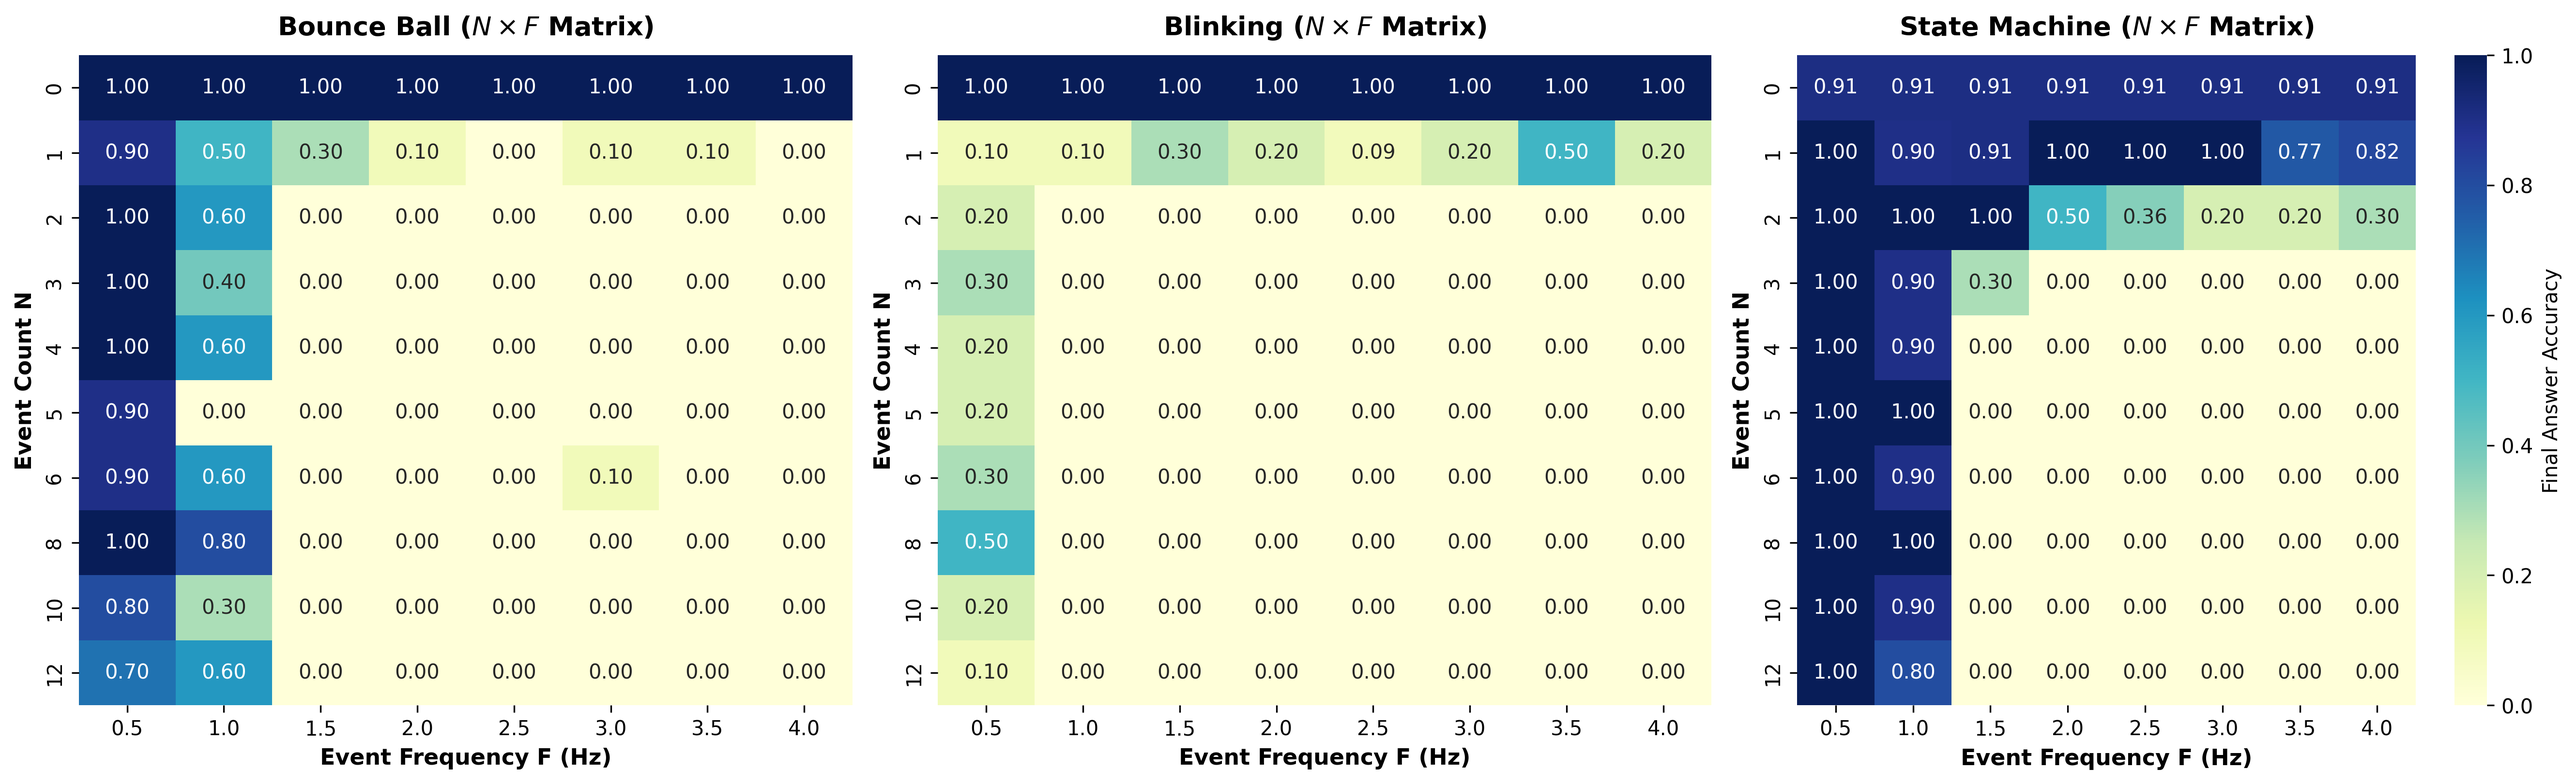
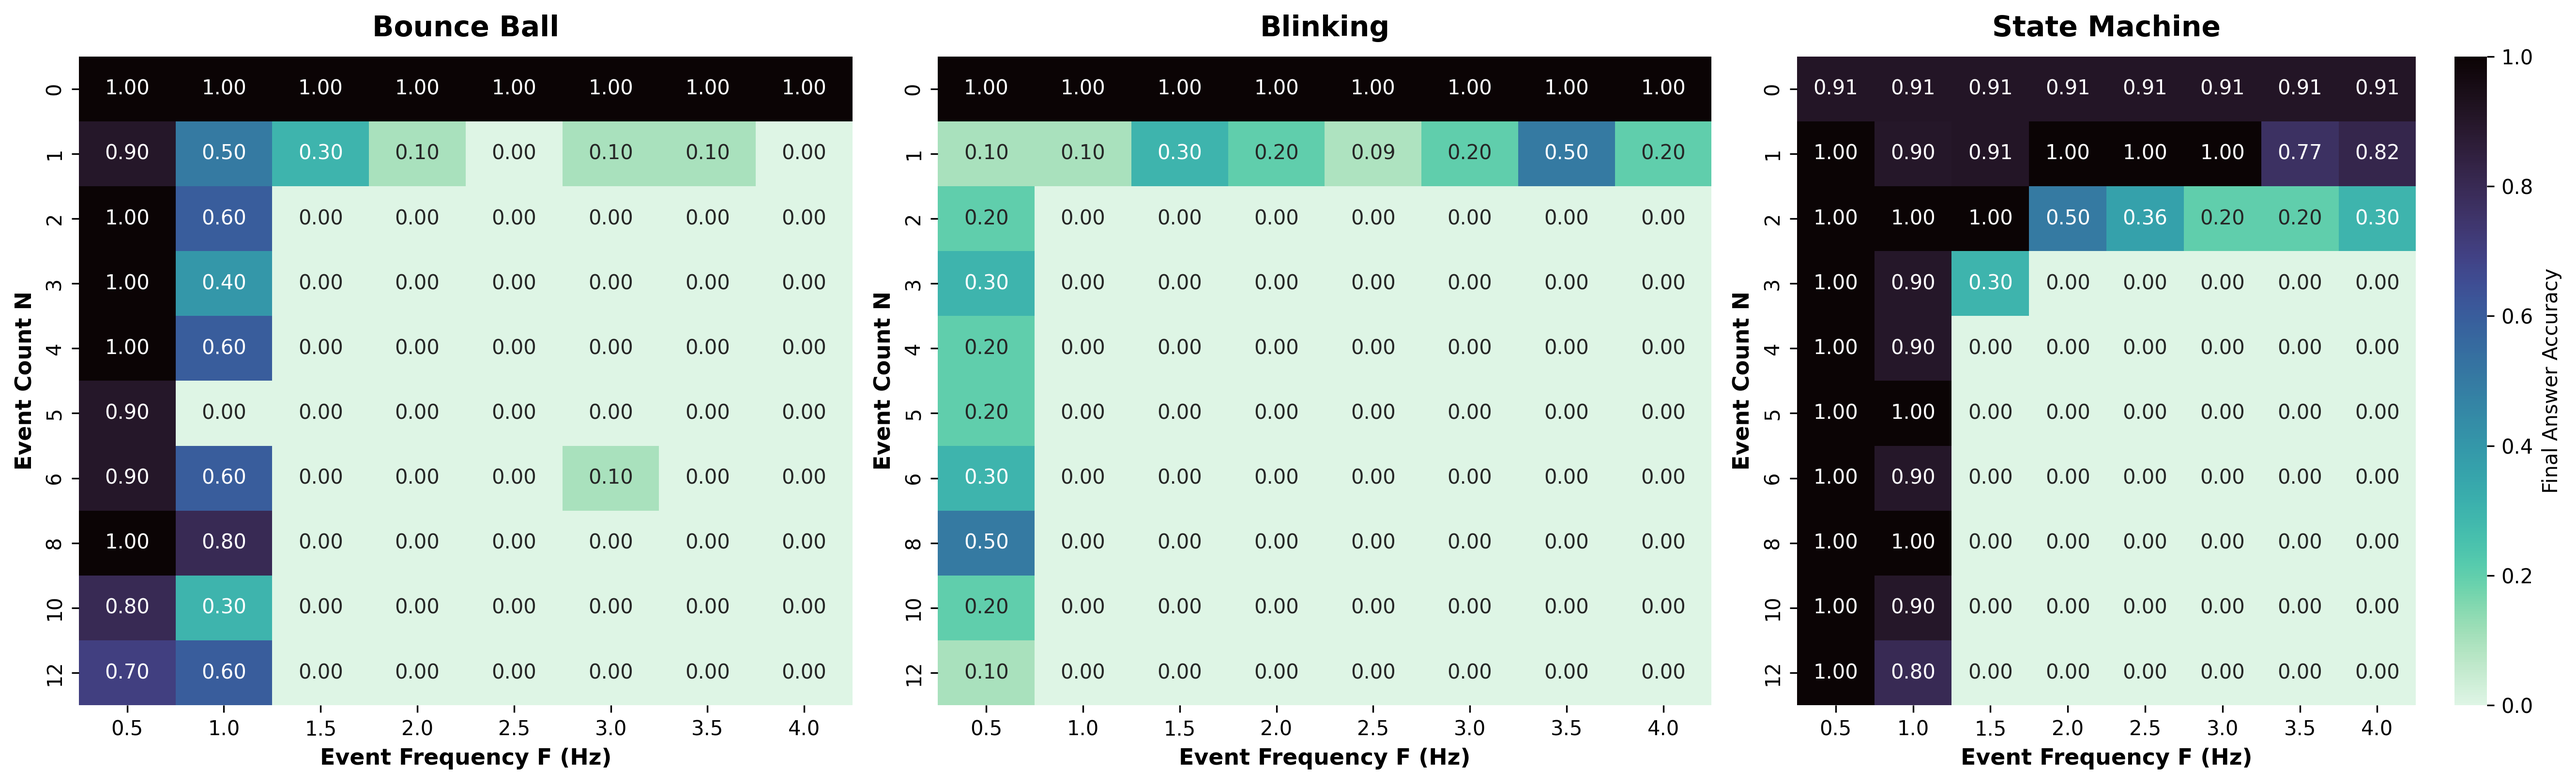
Update Fig 3 heatmaps color palette and clean titles; update Fig 4 to use Keyframe label and remove Bounce Ball from titles

diff --git a/scripts/build_paper_figures_and_tables.py b/scripts/build_paper_figures_and_tables.py
@@ -173,7 +173,7 @@ def main():
     interventions_files = [
         ("Native + Structured (Baseline)", "results_matrix_gemini_gemini-3.6-flash_native_video_structured_trace.jsonl"),
         ("Dense Sampling (4 FPS)", "results_matrix_gemini_gemini-3.6-flash_frames_4fps_structured_trace.jsonl"),
-        ("Oracle Event Evidence", "results_matrix_gemini_gemini-3.6-flash_oracle_evidence_structured_trace.jsonl"),
+        ("Keyframe Evidence", "results_matrix_gemini_gemini-3.6-flash_oracle_evidence_structured_trace.jsonl"),
         ("Direct Answer", "results_matrix_gemini_gemini-3.6-flash_native_video_direct.jsonl"),
         ("Structured Trace", "results_matrix_gemini_gemini-3.6-flash_native_video_structured_trace.jsonl"),
         ("Multi-Turn Verification", "results_matrix_gemini_gemini-3.6-flash_native_video_multi_turn_verification.jsonl"),
@@ -251,14 +251,14 @@ def main():
                 pivot,
                 annot=True,
                 fmt=".2f",
-                cmap="YlGnBu",
+                cmap="mako_r",
                 ax=axes[idx],
                 vmin=0.0,
                 vmax=1.0,
                 cbar=(idx == 2),
                 cbar_kws={"label": "Final Answer Accuracy"} if idx == 2 else None
             )
-            axes[idx].set_title(f"{domain_labels[domain]} ($N \\times F$ Matrix)", fontsize=13, fontweight="bold", pad=10)
+            axes[idx].set_title(f"{domain_labels[domain]}", fontsize=14, fontweight="bold", pad=10)
             axes[idx].set_xlabel("Event Frequency F (Hz)", fontsize=11, fontweight="bold")
             axes[idx].set_ylabel("Event Count N", fontsize=11, fontweight="bold")
 
@@ -273,7 +273,7 @@ def main():
     # -------------------------------------------------------------
     fig, (ax_a, ax_b, ax_c) = plt.subplots(1, 3, figsize=(18, 5), dpi=300)
 
-    # Panel A: Sampling Densities vs N
+    # Panel A: Visual Sampling Densities vs N
     fps_modes = [("1 FPS", "frames_1fps"), ("2 FPS", "frames_2fps"), ("4 FPS", "frames_4fps"), ("8 FPS", "frames_8fps"), ("16 FPS", "frames_16fps")]
     colors_fps = ["#1f77b4", "#ff7f0e", "#2ca02c", "#d62728", "#9467bd"]
 
@@ -295,17 +295,17 @@ def main():
                 ax_a.plot(n_grouped.index, n_grouped.values, marker="o", label=label, color=color, linewidth=2)
 
     ax_a.axhline(0.80, color="red", linestyle="--", alpha=0.7, label="τ = 0.80")
-    ax_a.set_title("A. Visual Sampling Densities (Bounce Ball)", fontsize=12, fontweight="bold")
+    ax_a.set_title("A. Visual Sampling Densities", fontsize=12, fontweight="bold")
     ax_a.set_xlabel("Event Count N", fontsize=11, fontweight="bold")
     ax_a.set_ylabel("Final Answer Accuracy", fontsize=11, fontweight="bold")
     ax_a.set_ylim(-0.02, 1.05)
     ax_a.grid(True, linestyle=":", alpha=0.6)
     ax_a.legend(fontsize=9, loc="upper right")
 
-    # Panel B: Oracle Evidence vs Native vs 16 FPS vs N
+    # Panel B: Keyframe Evidence vs Native vs 16 FPS vs N
     panel_b_modes = [("Native Video", "results_matrix_gemini_gemini-3.6-flash_native_video_structured_trace.jsonl", "#1f77b4"),
                      ("16 FPS", "results_matrix_gemini_gemini-3.6-flash_frames_16fps_structured_trace.jsonl", "#9467bd"),
-                     ("Oracle Keyframes", "results_matrix_gemini_gemini-3.6-flash_oracle_evidence_structured_trace.jsonl", "#e63946")]
+                     ("Keyframe", "results_matrix_gemini_gemini-3.6-flash_oracle_evidence_structured_trace.jsonl", "#e63946")]
 
     for label, fname, color in panel_b_modes:
         fpath = outputs_dir / fname
@@ -322,10 +322,10 @@ def main():
             if recs:
                 df_b = pd.DataFrame(recs)
                 n_grouped = df_b.groupby("N_count")["exact_match_result"].mean()
-                ax_b.plot(n_grouped.index, n_grouped.values, marker="s" if "Oracle" in label else "o", label=label, color=color, linewidth=2.2)
+                ax_b.plot(n_grouped.index, n_grouped.values, marker="s" if label == "Keyframe" else "o", label=label, color=color, linewidth=2.2)
 
     ax_b.axhline(0.80, color="red", linestyle="--", alpha=0.7, label="τ = 0.80")
-    ax_b.set_title("B. Oracle Evidence vs Native & 16 FPS", fontsize=12, fontweight="bold")
+    ax_b.set_title("B. Keyframe Evidence vs Native & 16 FPS", fontsize=12, fontweight="bold")
     ax_b.set_xlabel("Event Count N", fontsize=11, fontweight="bold")
     ax_b.set_ylabel("Final Answer Accuracy", fontsize=11, fontweight="bold")
     ax_b.set_ylim(-0.02, 1.05)
@@ -357,7 +357,7 @@ def main():
                 ax_c.plot(n_grouped.index, n_grouped.values, marker="o", label=label, color=color, linewidth=2)
 
     ax_c.axhline(0.80, color="red", linestyle="--", alpha=0.7, label="τ = 0.80")
-    ax_c.set_title("C. Prompting & Reasoning Formats (Bounce Ball)", fontsize=12, fontweight="bold")
+    ax_c.set_title("C. Prompting & Reasoning Formats", fontsize=12, fontweight="bold")
     ax_c.set_xlabel("Event Count N", fontsize=11, fontweight="bold")
     ax_c.set_ylabel("Final Answer Accuracy", fontsize=11, fontweight="bold")
     ax_c.set_ylim(-0.02, 1.05)

diff --git a/outputs/paper/tab_1_trace_grounded_evaluation.tex b/outputs/paper/tab_1_trace_grounded_evaluation.tex
@@ -23,7 +23,7 @@
 \textbf{Visual Evidence Family} & & & & & & & \\
   Native + Structured (Baseline)   &  19.5\% & 0.71 &  73.4\% &  38.8\% &  44.9\% &  2.7\% &  4.6\% \\
   Dense Sampling (4 FPS)           &  29.1\% & 0.71 &   7.8\% &   6.0\% &   6.5\% & 27.7\% &  1.4\% \\
-  Oracle Event Evidence            &   0.1\% & 0.00 &   0.3\% &   0.3\% &   0.3\% &  0.0\% &  0.2\% \\
+  Keyframe Evidence                &   0.1\% & 0.00 &   0.3\% &   0.3\% &   0.3\% &  0.0\% &  0.2\% \\
 \textbf{Prompting & Reasoning Family} & & & & & & \\
   Direct Answer                    &  15.5\% & 0.88 &  47.3\% &  43.1\% &  40.2\% &  5.2\% &  4.0\% \\
   Structured Trace                 &  19.5\% & 0.71 &  73.4\% &  38.8\% &  44.9\% &  2.7\% &  4.6\% \\
